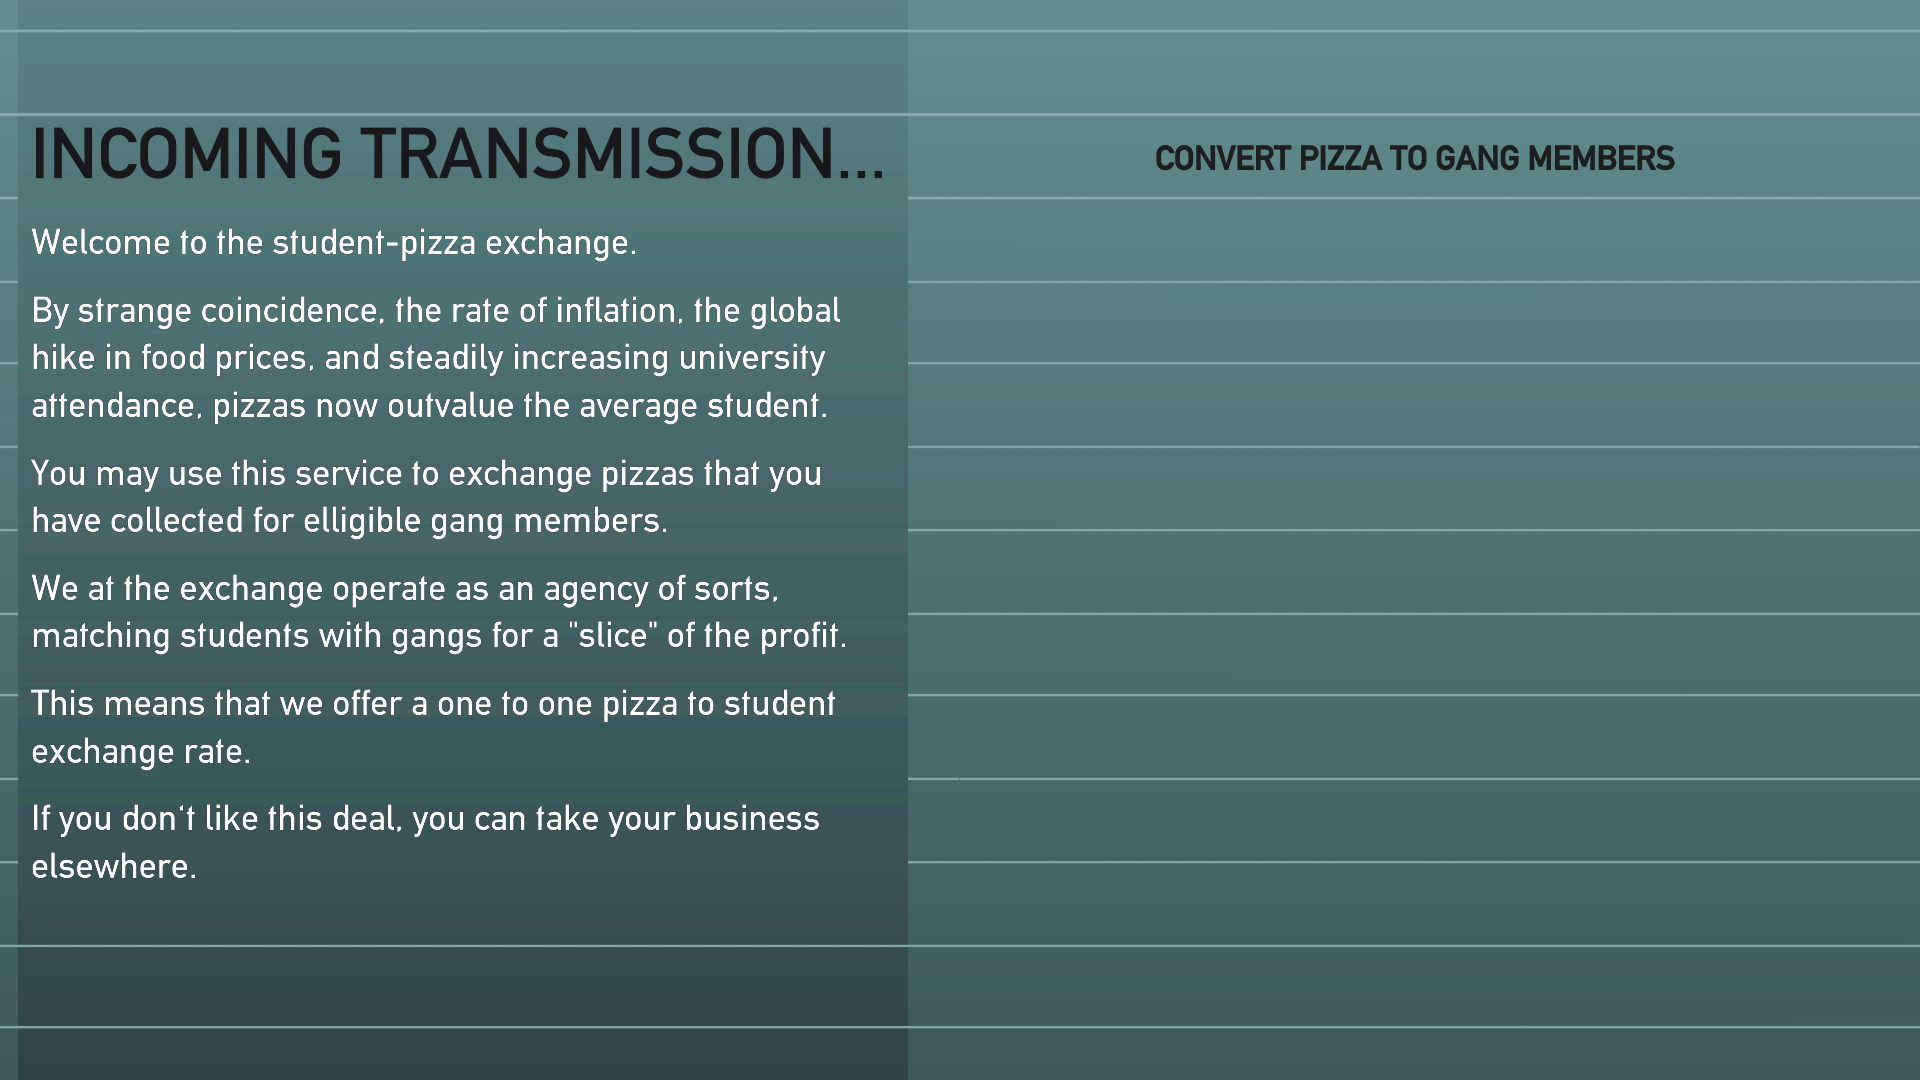
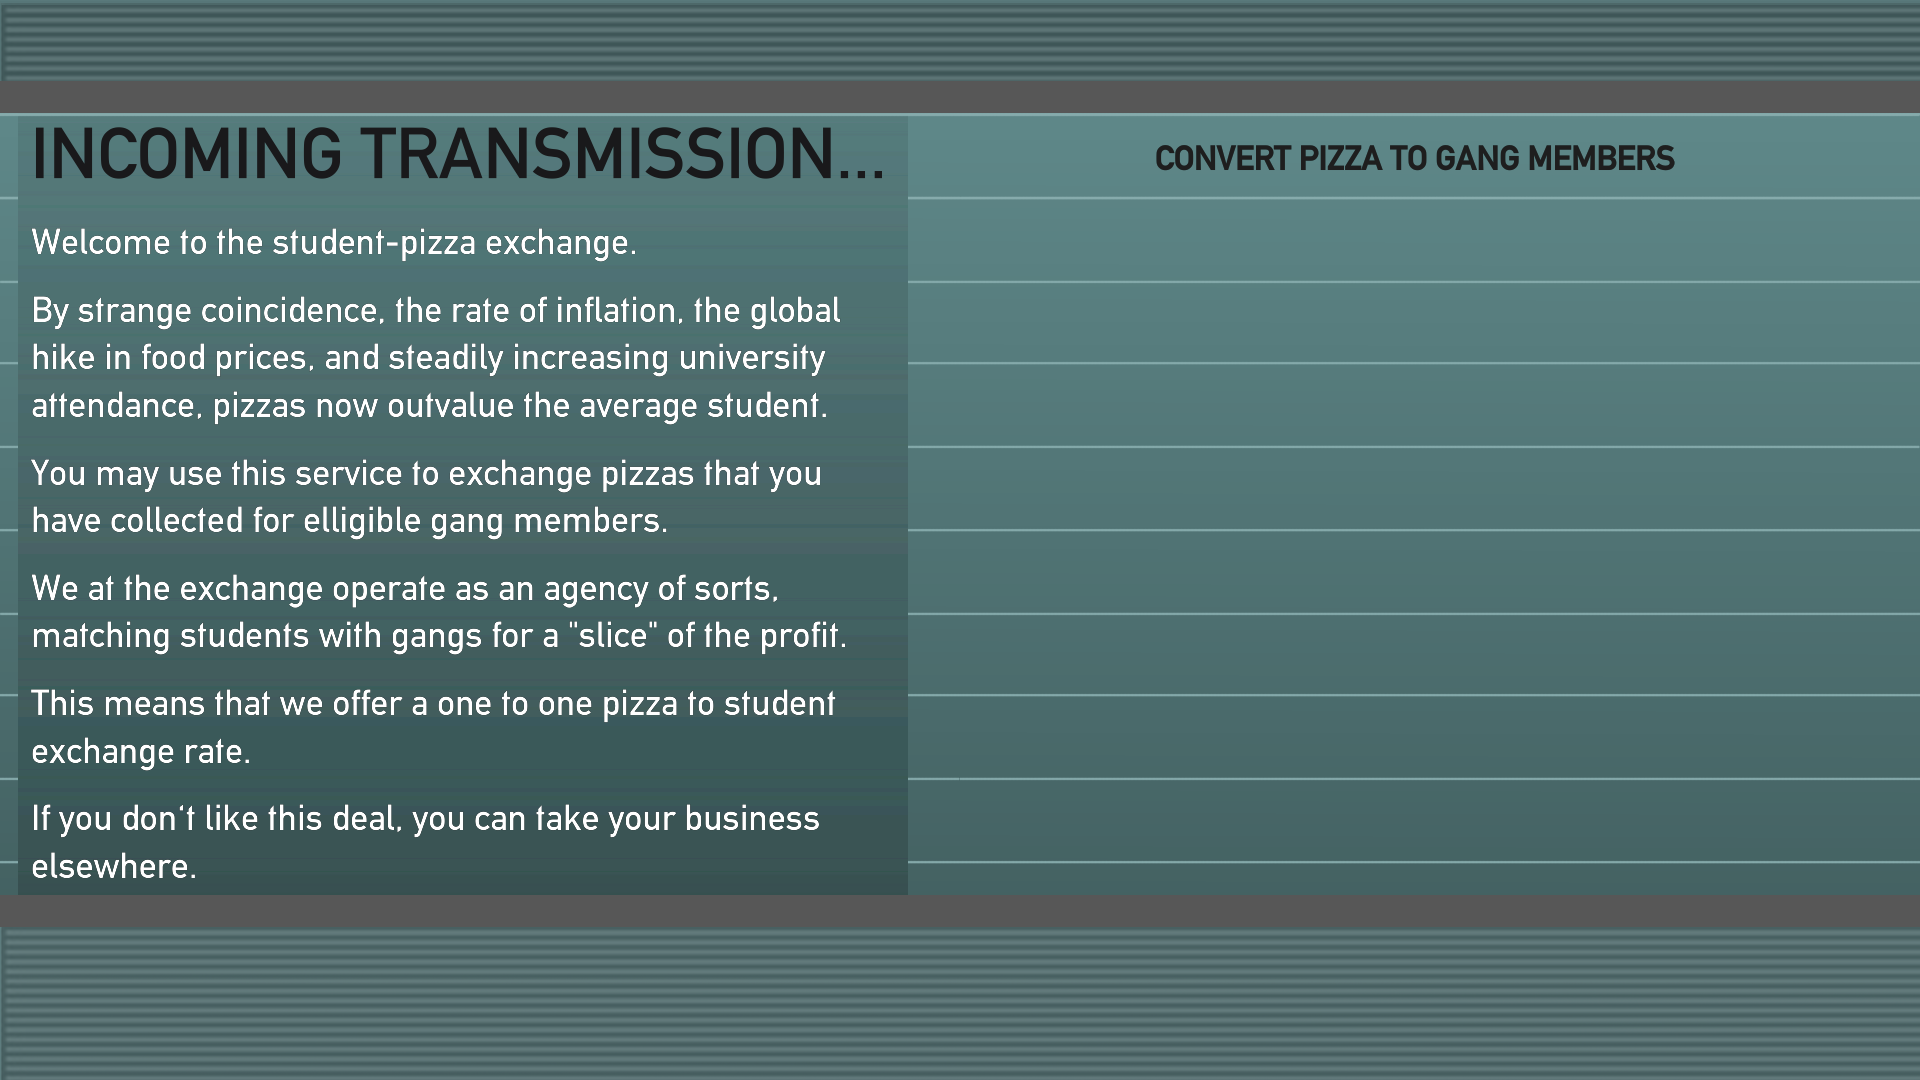
New background

Changed region(s): [[0.0, 0.825, 1.0, 1.0], [0.0, 0.0, 1.0, 0.1222]]

diff --git a/core/src/sepr/game/BonusExchangeScreen.java b/core/src/sepr/game/BonusExchangeScreen.java
@@ -6,8 +6,10 @@ import com.badlogic.gdx.Screen;
 import com.badlogic.gdx.graphics.GL20;
 import com.badlogic.gdx.graphics.Texture;
 import com.badlogic.gdx.graphics.g2d.TextureRegion;
+import com.badlogic.gdx.scenes.scene2d.Actor;
 import com.badlogic.gdx.scenes.scene2d.Stage;
 import com.badlogic.gdx.scenes.scene2d.ui.Table;
+import com.badlogic.gdx.scenes.scene2d.utils.ChangeListener;
 import com.badlogic.gdx.scenes.scene2d.utils.TextureRegionDrawable;
 import com.badlogic.gdx.utils.viewport.ScreenViewport;
 
@@ -53,12 +55,23 @@ public class BonusExchangeScreen implements Screen {
     private void setupUi() {
 
         // add the menu background
-        table.background(new TextureRegionDrawable(new TextureRegion(new Texture("uiComponents/menuBackground.png"))));
+        table.background(new TextureRegionDrawable(new TextureRegion(new Texture("uiComponents/bonusExchange/background.png"))));
 
-        table.center();
+        table.center().top();
         table.add(WidgetFactory.genMenusTopBar("PIZZA EXCHANGE")).colspan(2);
 
+        table.row();
+        table.add().expand();
 
+        table.row().bottom();
+        table.add(WidgetFactory.genBottomBar("RETURN", new ChangeListener() {
+            @Override
+            public void changed(ChangeEvent event, Actor actor) {
+                main.sounds.playSound("menu_sound");
+                main.returnGameScreen();
+            }
+
+        })).colspan(2);
 
     }
 

diff --git a/core/src/sepr/game/Main.java b/core/src/sepr/game/Main.java
@@ -25,6 +25,7 @@ public class Main extends Game implements ApplicationListener {
 	private LoadScreen saveScreen;
 	private MinigameScreen minigameScreen;
 	public  Sounds sounds;
+	private BonusExchangeScreen bonusExchangeScreen;
 
 
 	/**
@@ -42,12 +43,14 @@ public class Main extends Game implements ApplicationListener {
 		this.gameSetupScreen = new GameSetupScreen(this);
 		this.saveScreen = new LoadScreen(this, EntryPoint.GAME_SCREEN, this.gameScreen, this.gameSetupScreen);
 		this.minigameScreen = new MinigameScreen(this.gameScreen);
+		this.bonusExchangeScreen = new BonusExchangeScreen(this, gameScreen);
 
         this.sounds = new Sounds();
 		applyPreferences();
 
-		this.setMenuScreen();
+		//this.setMenuScreen();
         //this.setMinigameScreen();
+        this.setBonusExchangeScreen();
 	}
 
     /**
@@ -55,6 +58,13 @@ public class Main extends Game implements ApplicationListener {
      */
     public void setMinigameScreen() {
         this.setScreen(minigameScreen);
+    }
+
+    /**
+     * changes the screen currently being displayed to the menu
+     */
+    public void setBonusExchangeScreen() {
+        this.setScreen(bonusExchangeScreen);
     }
 
 	/**
